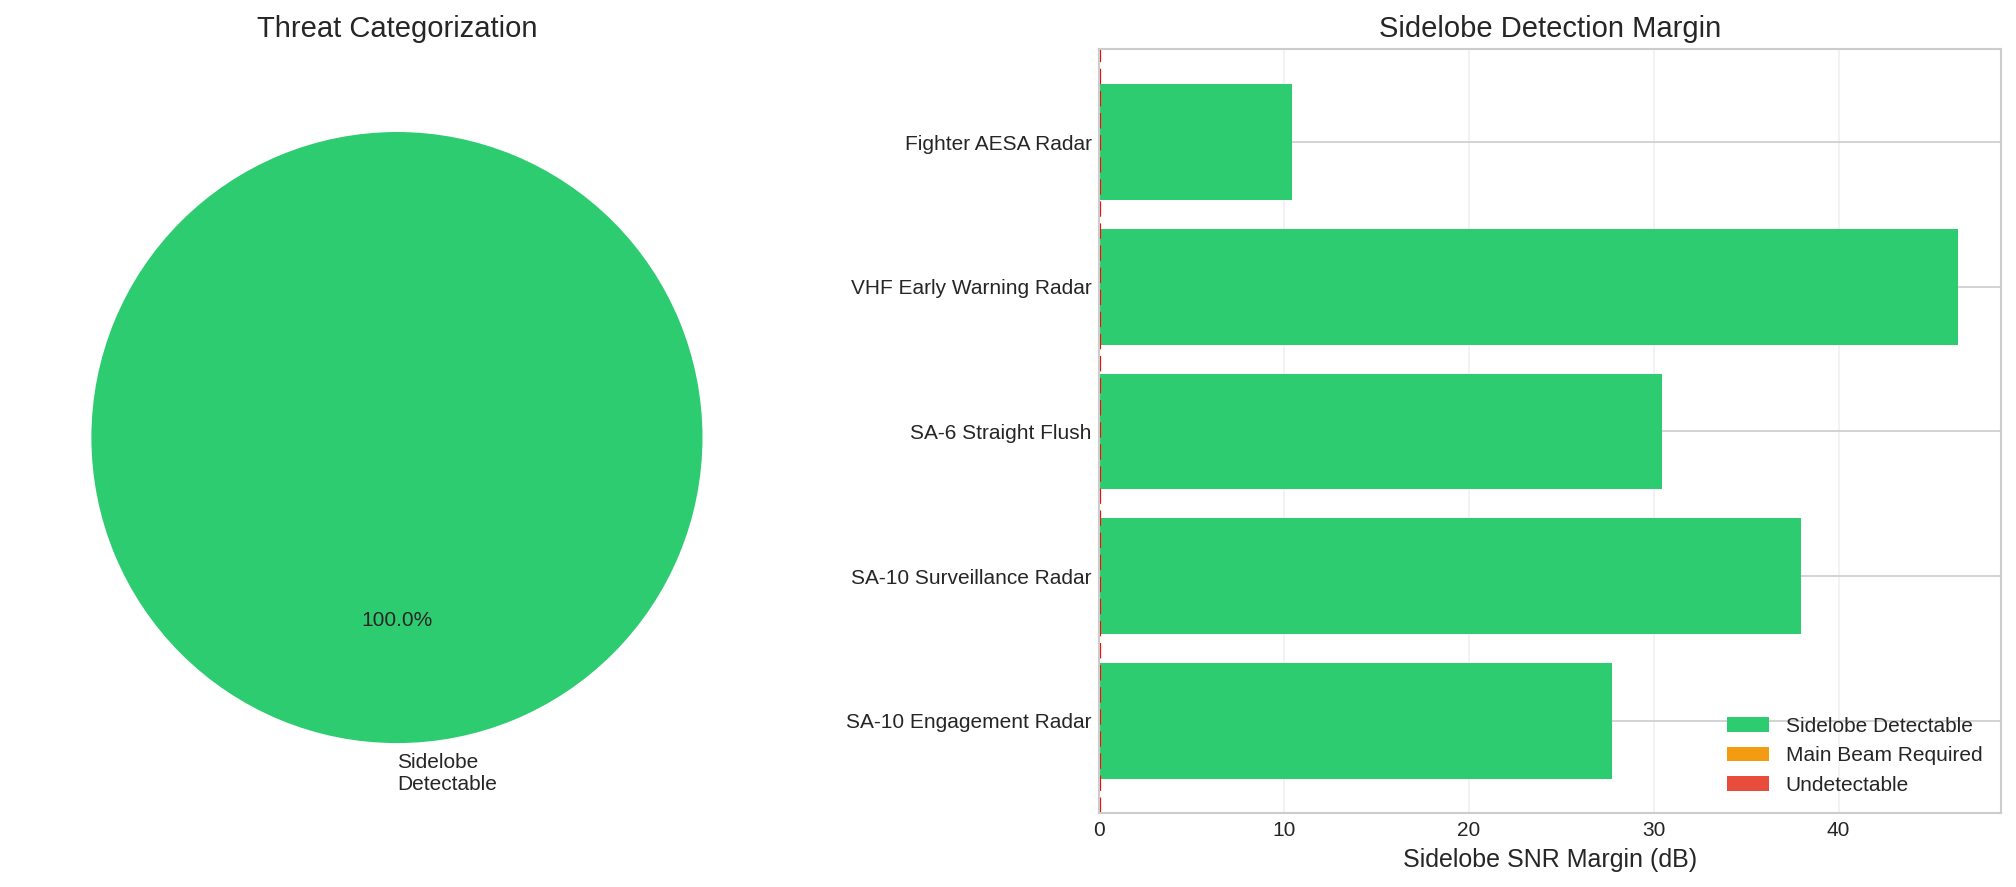
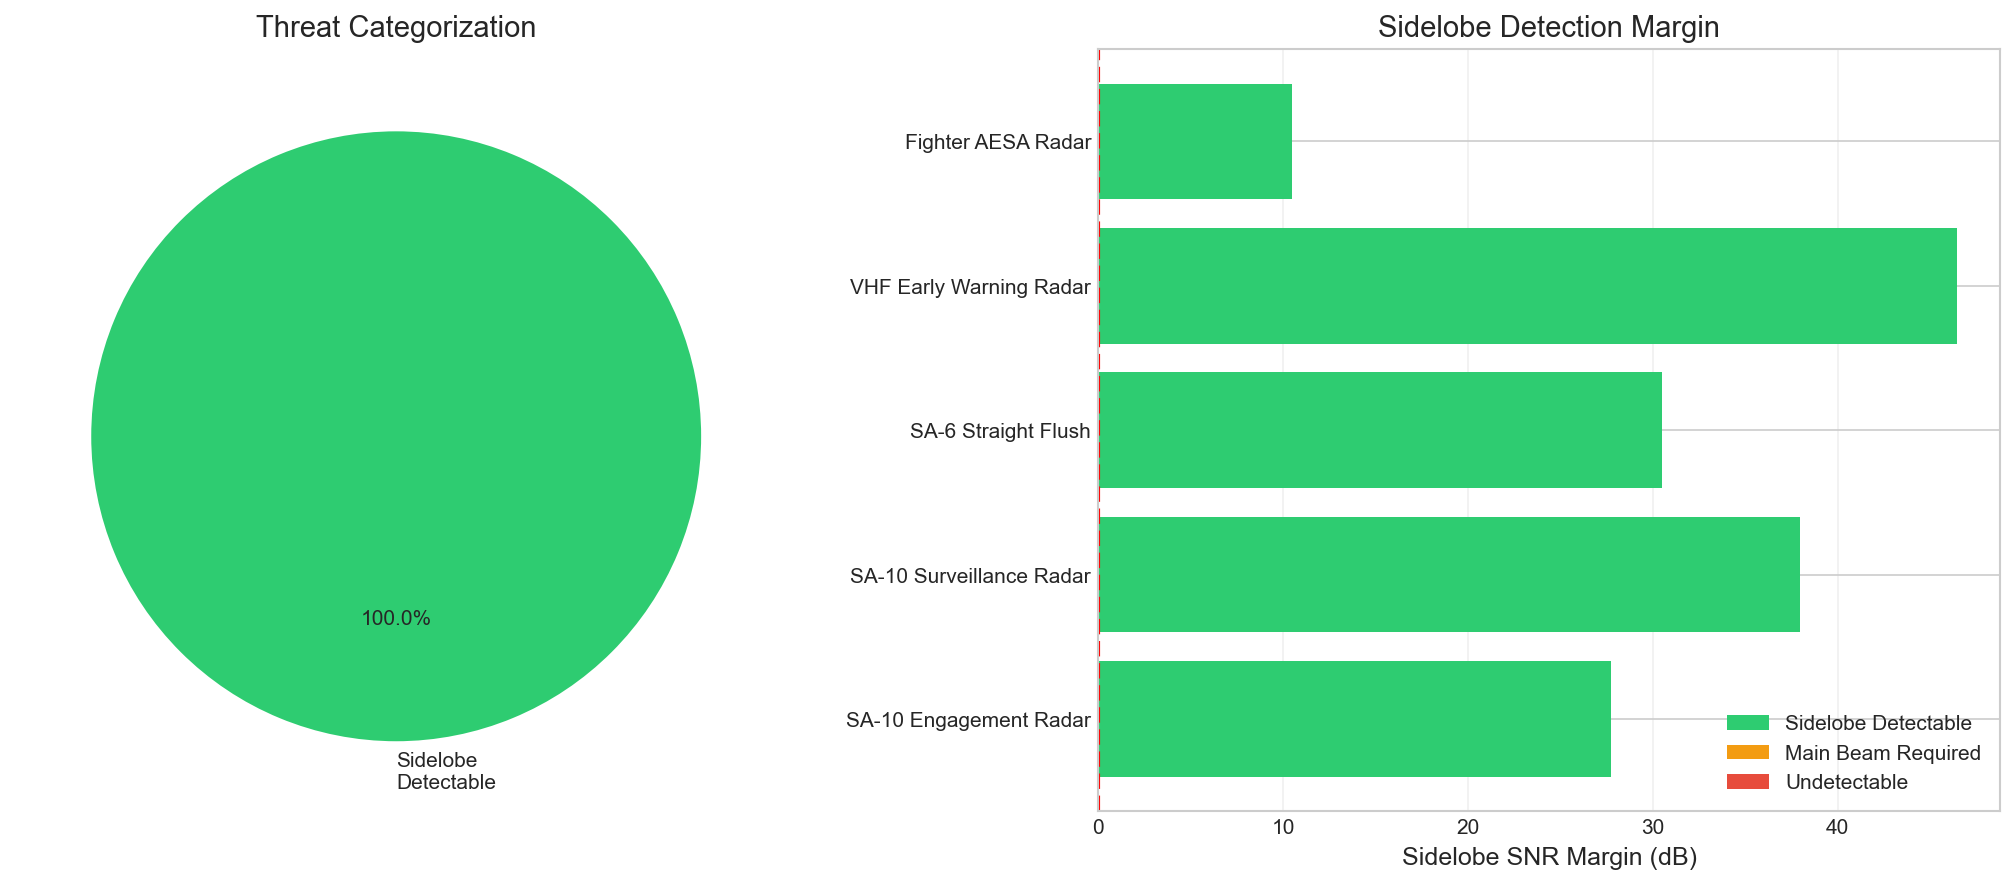
Save config tuning and updated project report

diff --git a/project_analysis_report.md b/project_analysis_report.md
@@ -3,23 +3,51 @@
 **Target Repository:** Electronic Warfare System Analysis Framework
 **Objective:** Complete the remaining architectural refactoring and integration tasks.
 
-### Task 1: Enforce Centralized Configuration
-**Goal:** Force all analysis modules to load primary parameters from `system_config.yaml`.
+### Task 1: Enforce Centralized Configuration & Unified Architecture
+**Goal:** Consolidate all system parameters into `system_config.yaml` and `rf_chains.yaml`. Ensure all analysis modules read from these central files.
 
-*   **Target Files:** `adc_analysis/config/loader.py`, `antenna_coverage_analysis/config/loader.py`, `rf_chain_analysis/config/loader.py`, `direction_finding_analysis/config/loader.py`, `ekf_geolocation/config/loader.py`.
-    *   **Logic Update:** Modify the `load_config()` function in each loader.
-    *   **Dependency:** Import `system_config.load_system_config`.
-    *   **Implementation:**
-        1.  Load the central `system_config` object.
-        2.  Load the local YAML (only for module-specific details like jitter or simulation steps).
-        3.  **Overwrite** local values with system values:
-            *   ADC: `sample_rate`, `resolution`.
-            *   RF Chain: `freq_range`.
-            *   Antenna: `n_elements`, `positions`, `gain`.
-            *   Direction Finding: `n_elements`, `baseline`, `phase_error`.
-            *   EKF: Overwrite the entire `interferometer` object in `SimulationConfig` with data from `system_config.interferometer`.
-*   **Target File:** `ekf_geolocation/core/signal_propagation.py`
-    *   **Update:** Modify `calculate_signal_propagation` to accept `bandwidth_hz` and `noise_figure_db` as arguments (sourced from system config) rather than hardcoding `1e6` and `3.0`.
+*   **Sub-task 1.0: Centralize Config Directory & Move Files**
+    *   **Action:** Create a top-level `config/` directory.
+    *   **Move:** Move `system_config/system_config.yaml` and `rf_chain_analysis/config/rf_chains.yaml` to `config/`.
+    *   **Update:** Update `system_config/loader.py` to point to this new location.
+
+*   **Sub-task 1.1: Consolidate Hardware Definitions (Data Migration)**
+    *   **ADC Specs:**
+        *   **Source:** `adc_analysis/config/adc_specs_model1.yaml`.
+        *   **Dest:** Merge these parameters (sample rate, bits, bands, spurious) into `config/system_config.yaml` under the `adc` section.
+    *   **Interferometer Specs:**
+        *   **Source:** `direction_finding_analysis/config/interferometer_config.yaml`.
+        *   **Dest:** Ensure `config/system_config.yaml` has the correct `element_positions`, `n_elements`, and `phase_error`.
+    *   **Antenna Specs:**
+        *   **Source:** `antenna_coverage_analysis/config/uav_config.yaml`.
+        *   **Dest:** Merge antenna definitions (gain, beamwidth) into `config/system_config.yaml` under the `antennas` section.
+
+*   **Sub-task 1.2: Refactor RF Chain Architecture (Linked Files)**
+    *   **`config/rf_chains.yaml`**: Modify this file to contain **ONLY** the `components` section (The Component Library).
+    *   **`config/system_config.yaml`**: Move the `chain_archetypes` and `paths` sections here (The System Blueprint).
+    *   **Update `system_config/loader.py`**:
+        *   Load both files.
+        *   Resolve component references: When parsing a chain in `system_config`, look up the component details in `rf_chains`.
+        *   **Fix Gain Bug:** Implement the dynamic `total_gain_db` calculation (sum of components) and remove the hardcoded field.
+        *   **Unify Antennas:** When parsing an RF chain component of type `antenna`, resolve its specs by looking up the ID in the `antennas` section of `system_config`.
+
+*   **Sub-task 1.3: Update Analysis Loaders (Code Updates)**
+    *   **`adc_analysis/config/loader.py`**:
+        *   Import `system_config.load_system_config`.
+        *   Map `system_config.adc` data to the `ADCSpecs` class.
+        *   Remove dependency on local `adc_specs.yaml`.
+    *   **`direction_finding_analysis/config/loader.py`**:
+        *   Import `system_config.load_system_config`.
+        *   Load hardware specs (positions, etc.) from `system_config.interferometer`.
+        *   Load *only* simulation settings (angles, test freqs) from local `interferometer_config.yaml`.
+    *   **`antenna_coverage_analysis/config/loader.py`**:
+        *   Import `system_config.load_system_config`.
+        *   Load antenna definitions from `system_config.antennas`.
+    *   **`ekf_geolocation/config/loader.py`**:
+        *   Import `system_config.load_system_config`.
+        *   Replace local interferometer/emitter config with data from `system_config`.
+    *   **`rf_chain_analysis/example_analysis.py`**:
+        *   Update to use `load_system_config` (or the new RF library loader) instead of the legacy `load_chain_config`.
 
 ### Task 2: Multi-Band & Multi-Role Antenna Coverage
 **Goal:** Generate separate coverage maps for Low/Mid bands and TX/RX paths.
@@ -69,3 +97,11 @@
 *   **Target File:** `ekf_geolocation/core/ekf.py`
     *   **Metric Calculation:** Add a function `calculate_convergence_metrics(errors, threshold)`.
     *   **New Metric:** Implement "Error after N valid measurements". Find the index where `cumulative_valid_measurements == N`, and report the position error at that index.
+
+### Task 8: Repository Cleanup
+**Goal:** Organize file structure for clarity.
+
+*   **MATLAB Files:**
+    *   **Action:** Create a `matlab_reference/` directory at the project root.
+    *   **Move:** Move all `.m` files from the root and subdirectories into this new folder.
+    *   **Rationale:** Separates legacy reference code from the active Python implementation.
